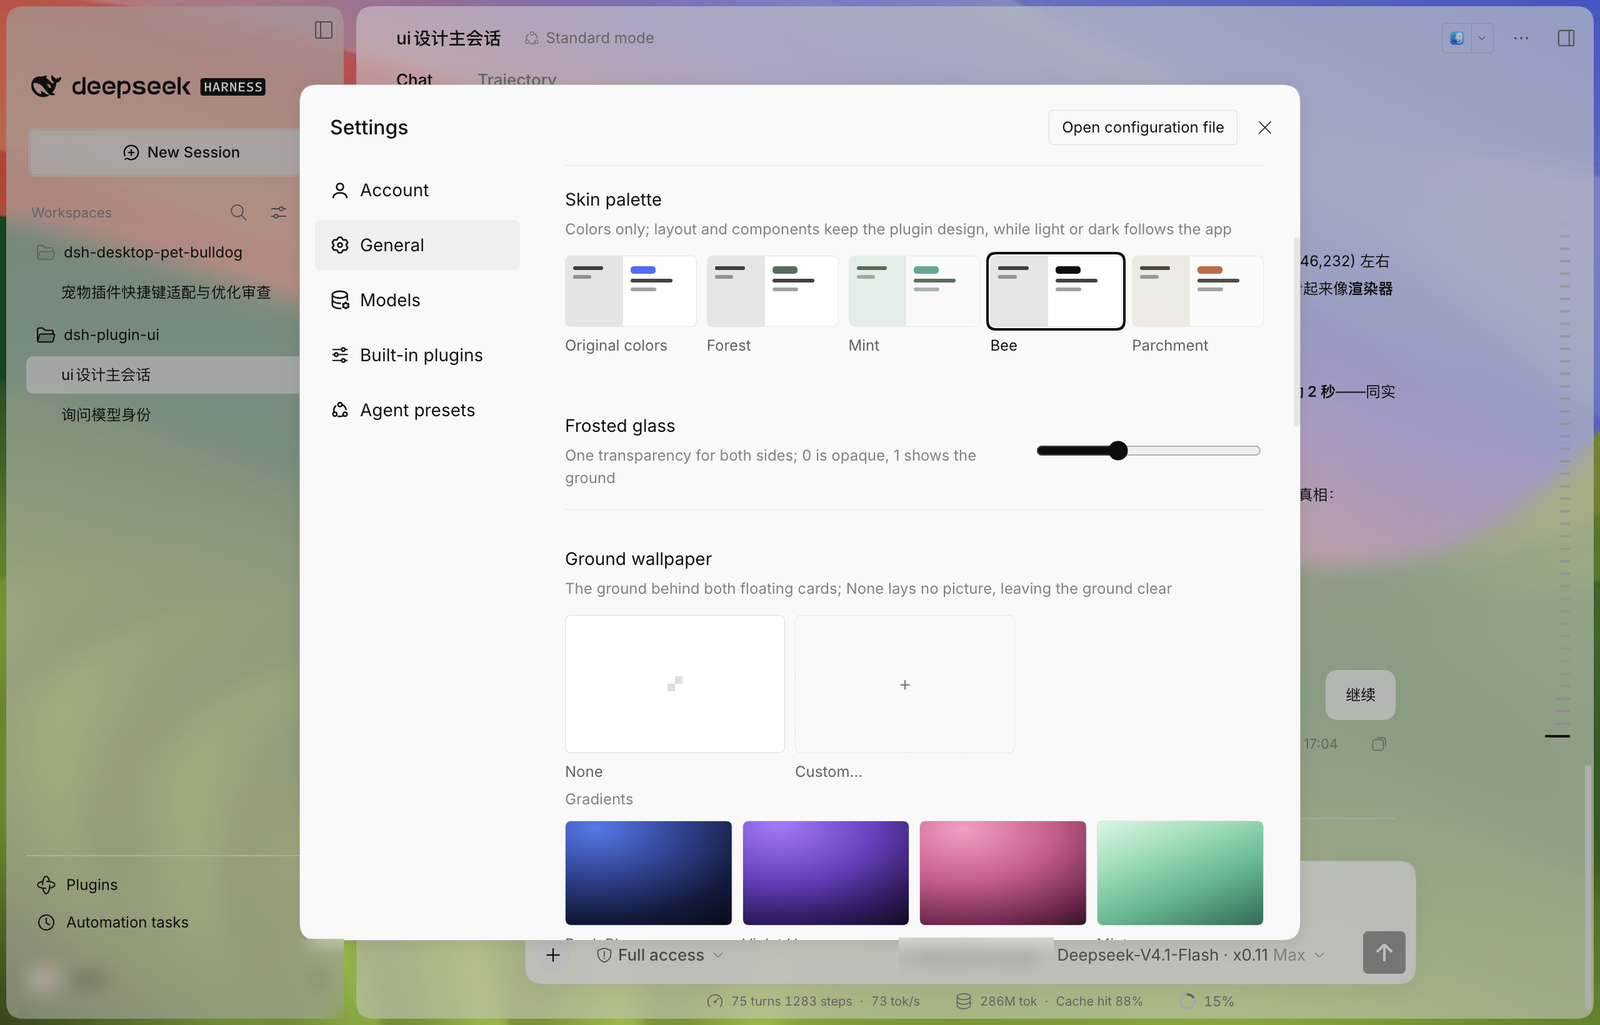
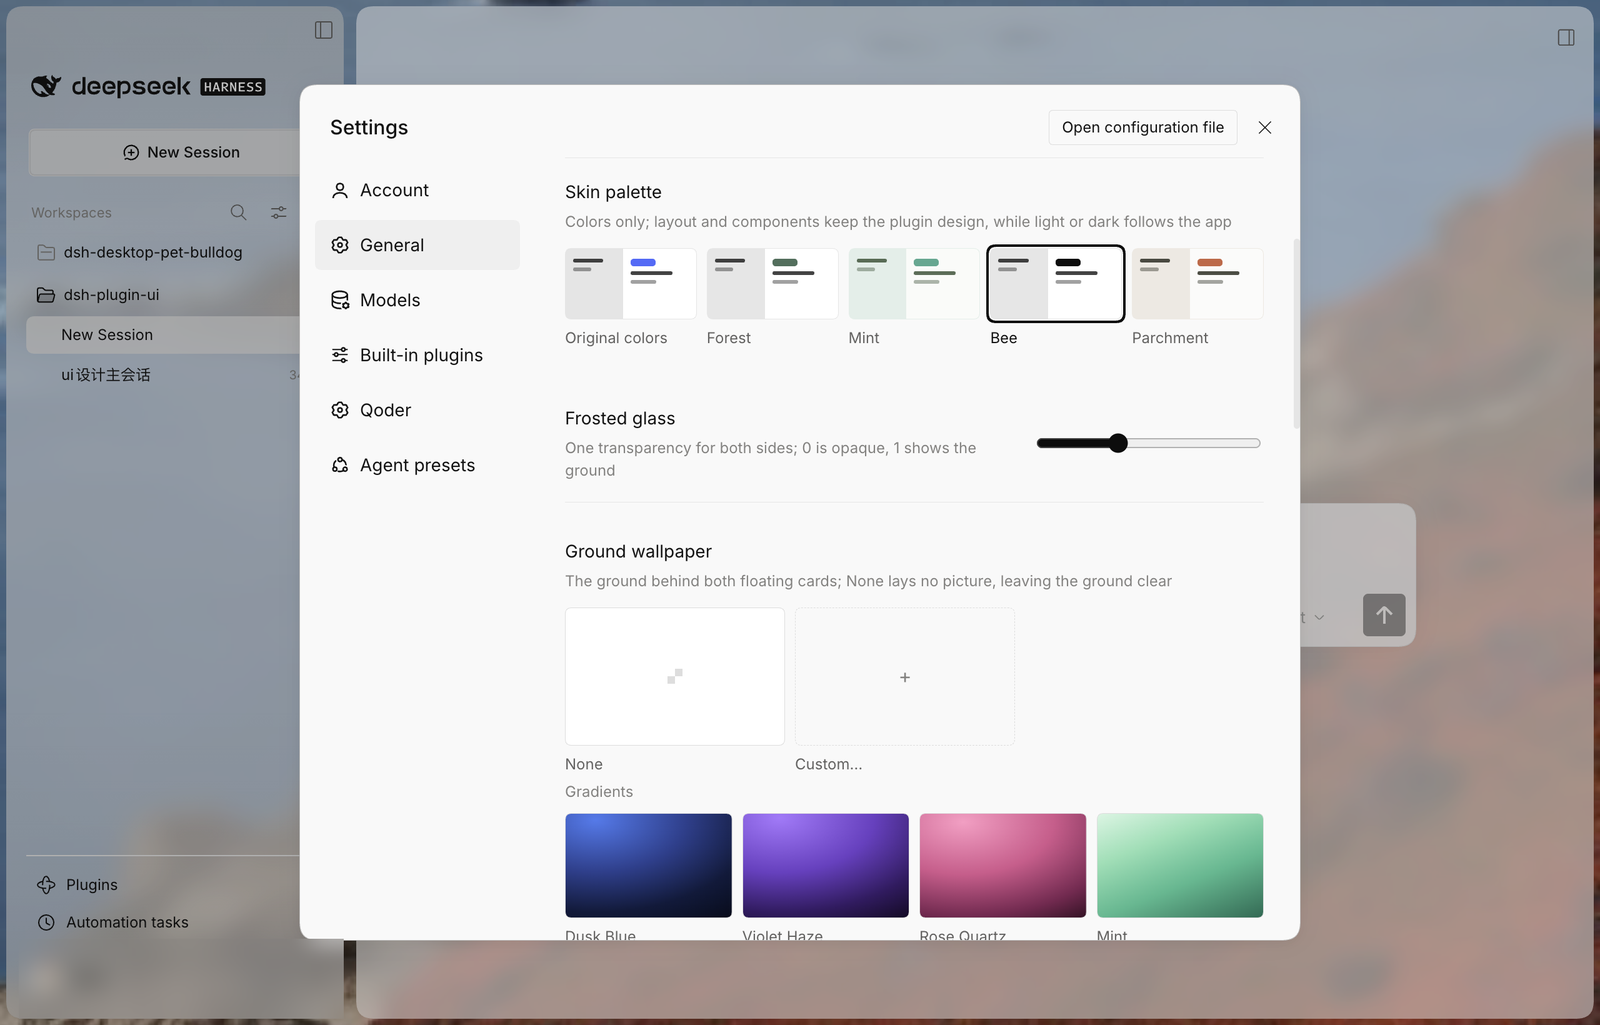
docs: retake all five README screenshots on the new-session home view; sidebar & text size now one full-interface shot (Large)

diff --git a/README.en.md b/README.en.md
@@ -36,7 +36,7 @@ One card shows the model list and reasoning effort levels (Off / Low / High / Ma
 
 5px main margin and 16px radius, tightened workspace/session rows; the official brand row and New Session button are kept, and Plugins/Automation pin above the account row. Text size (S / M / L = 12 / 14 / 16px) is one setting everywhere, and the account name scales with it.
 
-![Sidebar at 12px vs 16px](docs/images/text-size.png)
+![Full interface (text size: Large)](docs/images/text-size.png)
 
 ### Account row & quick settings
 

diff --git a/README.md b/README.md
@@ -36,7 +36,7 @@
 
 中栏 5px 外边距、16px 圆角，工作区/会话行收紧；顶部品牌行与新会话按钮保持官方设计，插件 / 自动化任务固定在账号行上方。文字大小（小 / 中 / 大 = 12 / 14 / 16px）同一设置所有界面同值，账号行的用户名同步缩放。
 
-![侧栏字号 12px 与 16px 对比](docs/images/text-size.png)
+![主界面全览（文字大小：大）](docs/images/text-size.png)
 
 ### 账号行与快捷设置
 
